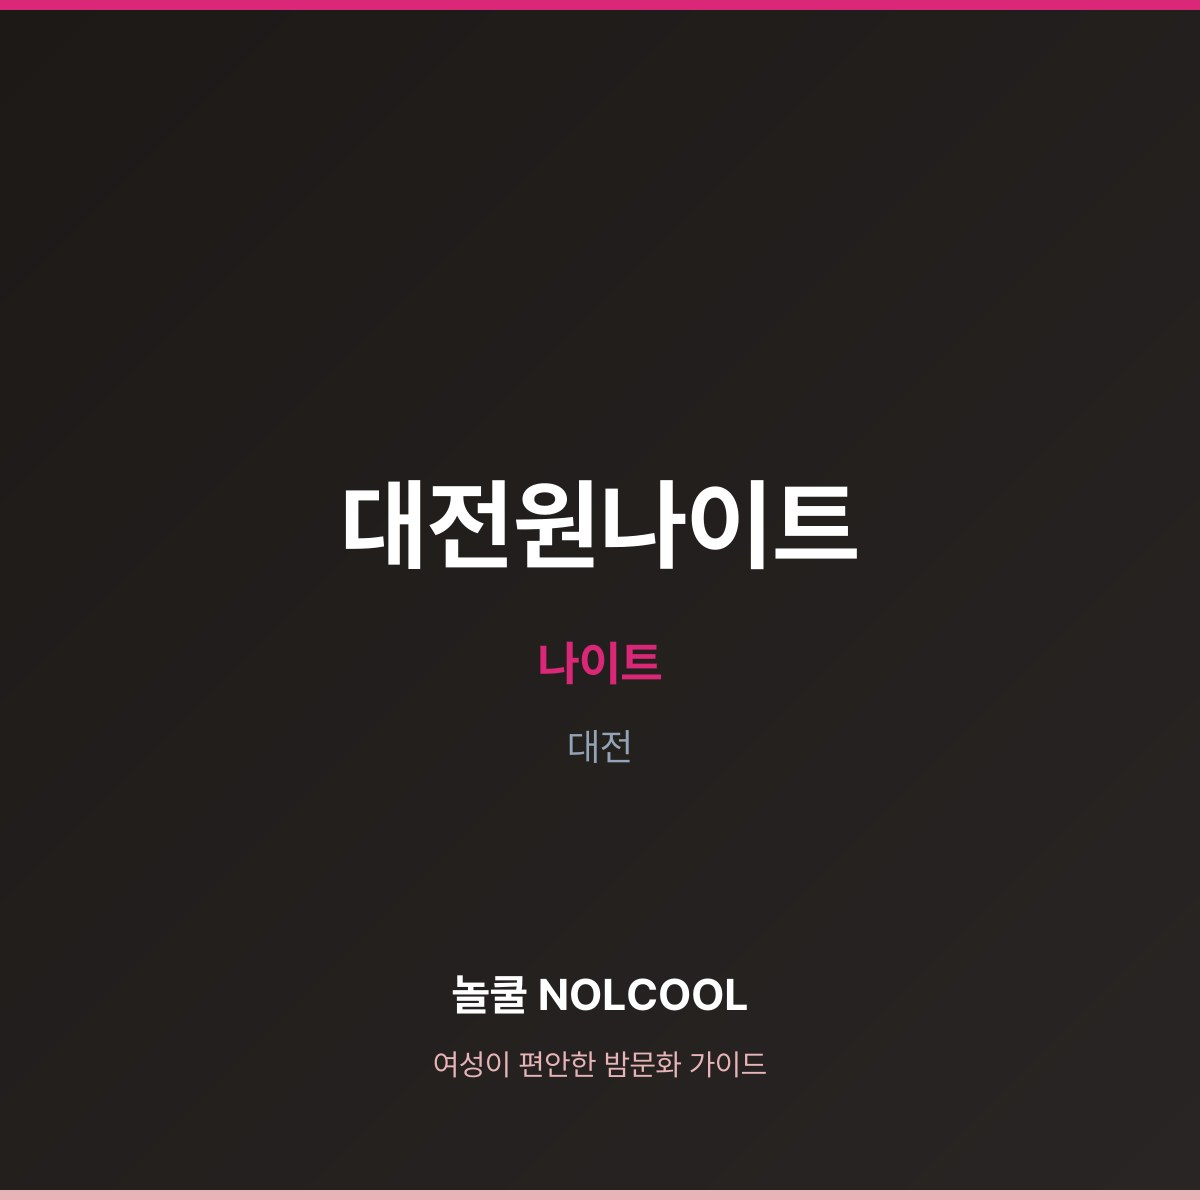
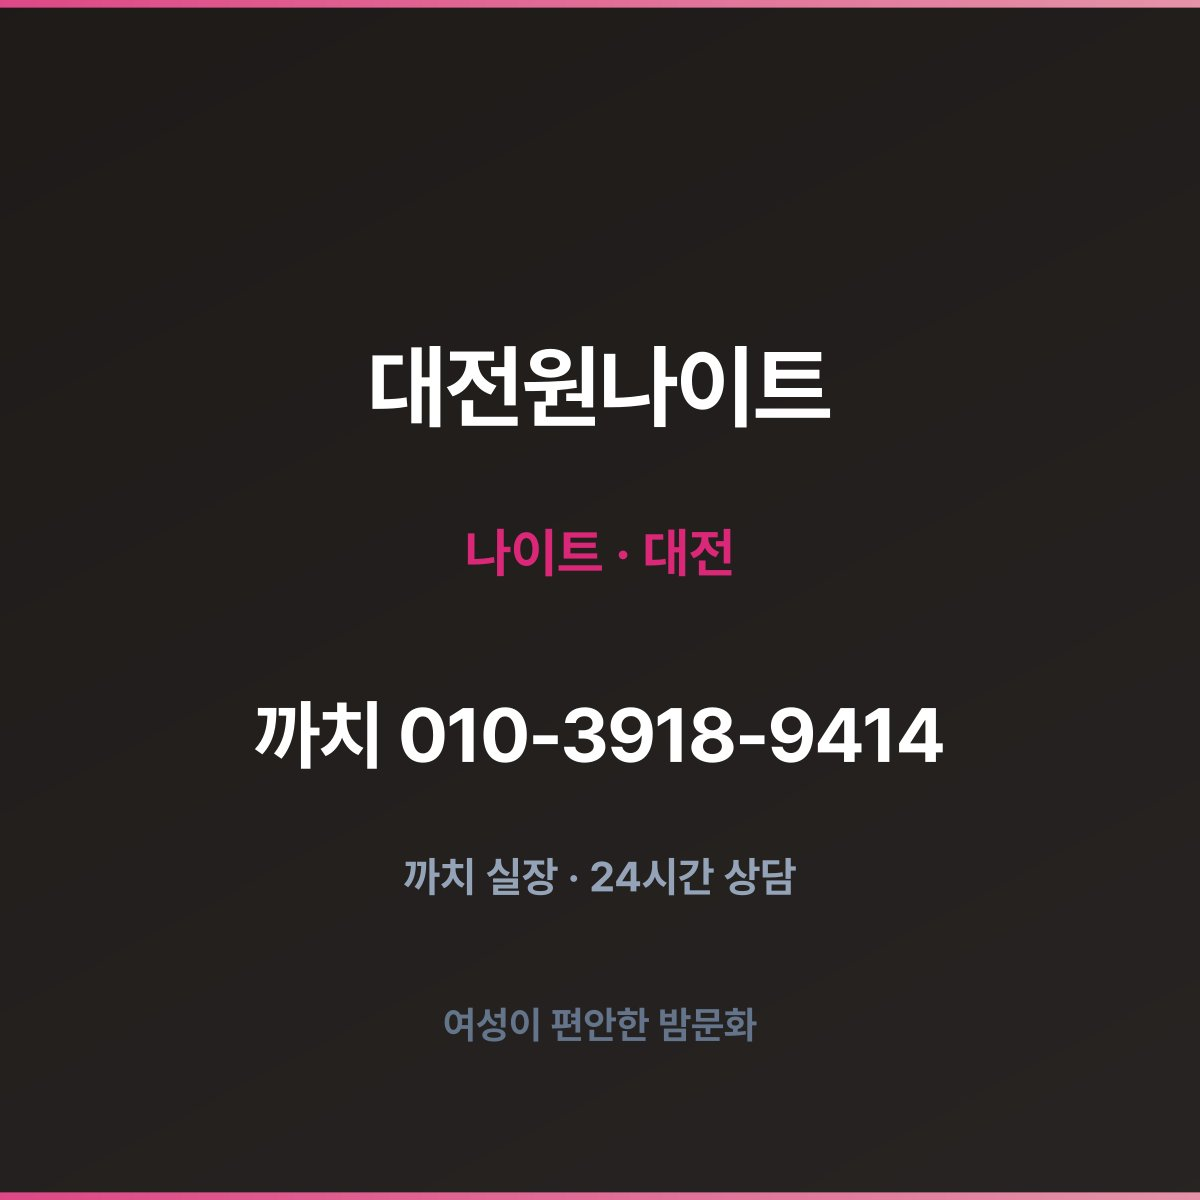
fix(daejeon-won): 연락처 까치 010-3918-9414 적용 + 검색썸네일(og) 재생성
- venues.ts: 대전원나이트 contact=까치, phone=010-3918-9414 (별도문의 제거)
- public/og/daejeon-won-night.svg/.jpg: 까치 010-3918-9414 노출 썸네일 재생성(1200²)
- 상세페이지·랭킹·비교위젯·JSON-LD telephone·prerender 전 경로 자동 반영

diff --git a/src/data/venues.ts b/src/data/venues.ts
@@ -749,12 +749,13 @@ export const venues: Venue[] = [
     address: '대전 서구',
     description: '대전 서구 중심가, 부담 없는 분위기에서 가볍게 즐기는 실속형 무대입니다.',
     hours: 'PM 9:00 ~ AM 5:00',
-    phone: '별도문의',
+    phone: '010-3918-9414',
     tags: ['대전', '서구', '나이트', '실속형'],
     card_hook: '부담 없는 실속형 분위기.\n대전 서구에서 가볍게 즐기기 딱 좋은 무대.',
     card_value: '대전 · 실속형 · PM 9:00~',
     card_tags: '대전 · 실속형 · 부담없는',
     keyword: '대전원나이트',
+    contact: '까치',
     category: 'night',
   },
   {
